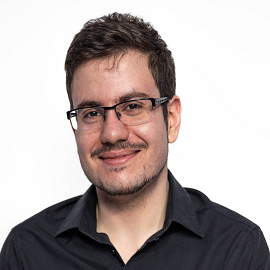
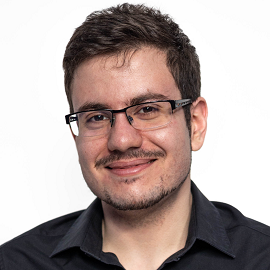
updated the profile picture

diff --git a/index.html b/index.html
@@ -24,7 +24,7 @@
 
         <div class="container">
             <div class="image-area">
-                <img src="resources/profile/profile_2024.jpg" alt="Image de profil" id="main-image">
+                <img src="resources/profile/profile_2023.png" alt="Image de profil" id="main-image">
                 <div class="icon" aria-label="button" data-text="about-me"><i
                         class="fa-solid fa-address-card fa-xl"></i>
                 </div>
